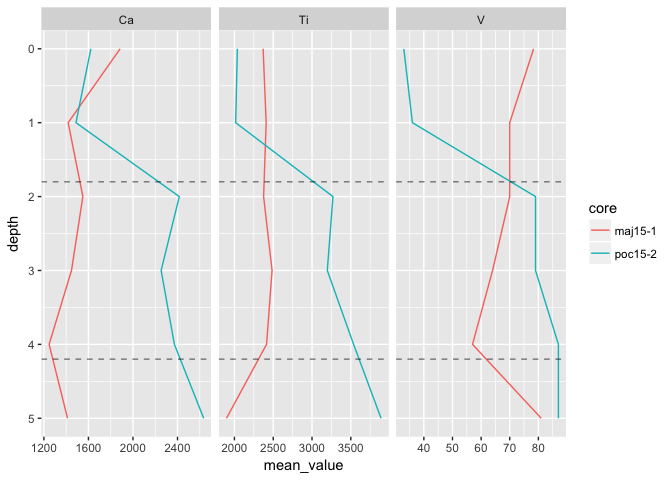
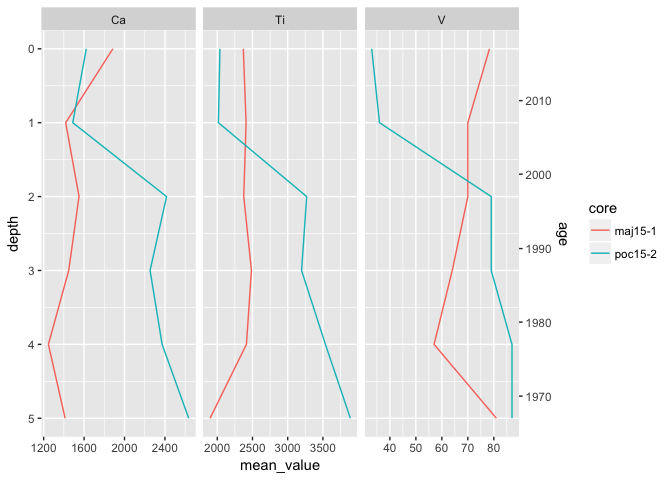
update tutorial

diff --git a/README.md b/README.md
@@ -116,7 +116,7 @@ head(pocmaj_clean)
 #> 6 poc15-2     3  2253  3197    79
 ```
 
-The `separate()` function takes a data.frame and three arguments: the column containing the values to separate, the names of the output columns, and the separator to use. This is technically a [regular expression](https://en.wikipedia.org/wiki/Regular_expression), which will only matter if you need to split on a string that contains special characters such as `+\[]()?*.{}`. Usually this isn't a problem, but if it is you can escape the string with a backslash like this: `sep = "\+"`. You can also keep your original `sample_id` column by passing `remove = FALSE`.
+The `separate()` function takes a data.frame and three arguments: the column containing the values to separate, the names of the output columns, and the separator to use. This is technically a [regular expression](https://en.wikipedia.org/wiki/Regular_expression), which will only matter if you need to split on a string that contains special characters such as `+\[]()?*.{}`. Usually this isn't a problem, but if it is you can escape the string with a backslash like this: `sep = "\\+"`. You can also keep your original `sample_id` column by passing `remove = FALSE`.
 
 There is a good chance that some of your `sample_id` values will be misspelled for some reason or another. A simple way to fix these values is using `if_else()`, which can be used to replace specific values in a column.
 
@@ -137,7 +137,7 @@ pocmaj_raw %>%
 
 For more advanced manipulation, use the `stringr` package, which provides the function `str_replace()` (among others) that can perform search and replace queries along the column.
 
-The next step is to convert depth values into numbers (they are currently text!). For this we will use `muate()` and `as.numeric()`:
+The next step is to convert depth values into numbers (they are currently text!). For this we will use `mutate()` and `as.numeric()`:
 
 ``` r
 pocmaj_clean <- pocmaj_raw %>%
@@ -200,7 +200,7 @@ head(pocmaj_long_summarised)
 #> 6 maj15-1     1     V   70.00000         NA     1
 ```
 
-Using `group_by()` then `summarise()` is common: `group_by()` specifies the columns whose unique combinations we are interested in. The values in these columns will identify unique combinations in the output, which in our case are represented by `core`, `depth`, and `param`. The `summarise()` function takes arguments in the form of `output_column_name = expression`, where `expression` is an R expression (like `mean(value)`)) where column names can be used like variables. Using `mean()` and `sd()` is a good start, but `min()` and `max()` are also useful, as well as passing `na.rm = TRUE` if `NA` values exist in the `value` column.
+Using `group_by()` then `summarise()` is common: `group_by()` specifies the columns whose unique combinations we are interested in. The values in these columns will identify unique rows in the output, which in our case are represented by `core`, `depth`, and `param`. The `summarise()` function takes arguments in the form of `output_column_name = expression`, where `expression` is an R expression (like `mean(value)`)) where column names can be used like variables. Using `mean()` and `sd()` is a good start, but `min()` and `max()` are also useful, as well as passing `na.rm = TRUE` if `NA` values exist in the `value` column.
 
 ### Converting parameter-long data to parameter-wide format
 
@@ -240,7 +240,7 @@ ggplot(pocmaj_long_summarised, aes(y = depth, x = mean_value, colour = core)) +
 #> Warning: Removed 24 rows containing missing values (geom_errorbarh).
 ```
 
-![](README-unnamed-chunk-11-1.png)
+![](README-unnamed-chunk-12-1.png)
 
 The `ggplot` library is quite intimidating at first, but it provides much flexibility and is worth the effort to [learn](http://r4ds.had.co.nz/data-visualisation.html). The above plot is constructed using a few lines, which I will describe one at a time.
 
@@ -293,6 +293,8 @@ depth_to_age(0:10)
 #>  [1] 2017 2007 1997 1987 1977 1967 1957 1947 1937 1927 1917
 ```
 
+Given this function, it can be passed to the `trans` argument of `sec_axis` to create a secondary Y axis.
+
 ``` r
 ggplot(pocmaj_long_summarised, aes(y = depth, x = mean_value, col = core)) +
   geom_path() +
@@ -300,7 +302,7 @@ ggplot(pocmaj_long_summarised, aes(y = depth, x = mean_value, col = core)) +
   scale_y_reverse(sec.axis = sec_axis(trans = ~depth_to_age(.), name = "age"))
 ```
 
-![](README-unnamed-chunk-18-1.png)
+![](README-unnamed-chunk-19-1.png)
 
 The details of creating a secondary axis can be found in `?sec_axis`. Obviously this doesn't make sense for multiple cores, but works well for multiple parameters on a single core.
 
@@ -316,7 +318,7 @@ ggplot(pocmaj_long_summarised, aes(y = depth, x = mean_value, col = core)) +
   scale_y_reverse()
 ```
 
-![](README-unnamed-chunk-19-1.png)
+![](README-unnamed-chunk-20-1.png)
 
 #### "Everything vs. everything"
 
@@ -349,7 +351,7 @@ ggplot(long_pairs, aes(x = mean_value.x, y = mean_value.y, col = core)) +
   facet_grid(param.y ~ param.x, scales = "free")
 ```
 
-![](README-unnamed-chunk-21-1.png)
+![](README-unnamed-chunk-22-1.png)
 
 This data format has the added advantage of being able to test all the correlations for significance:
 
